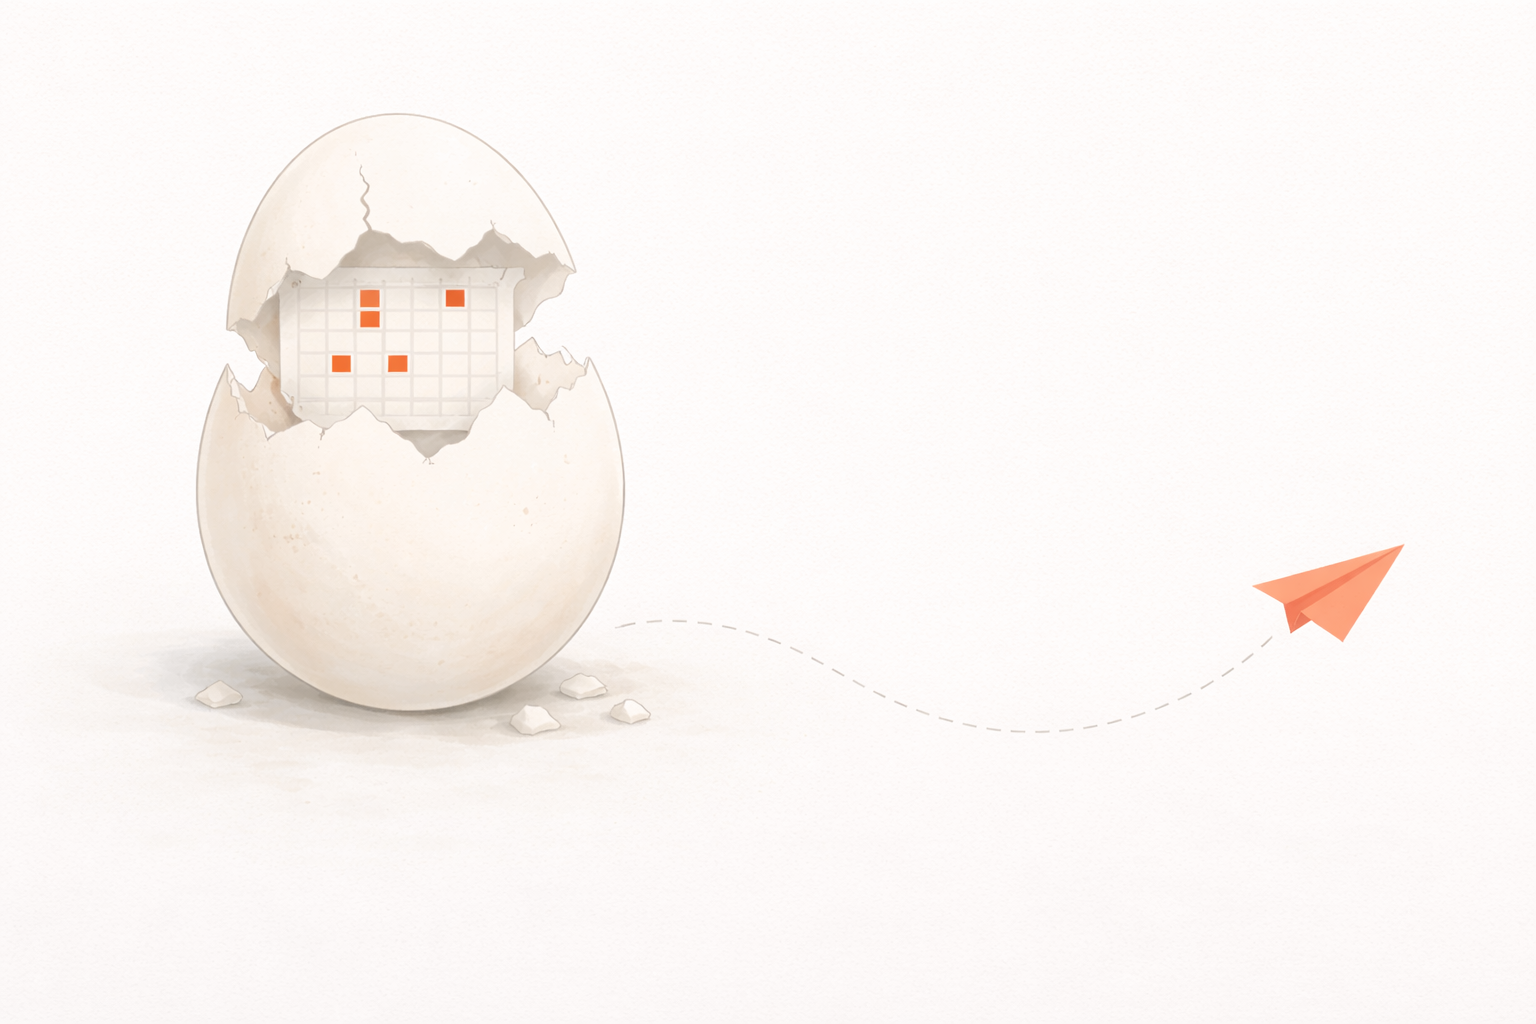
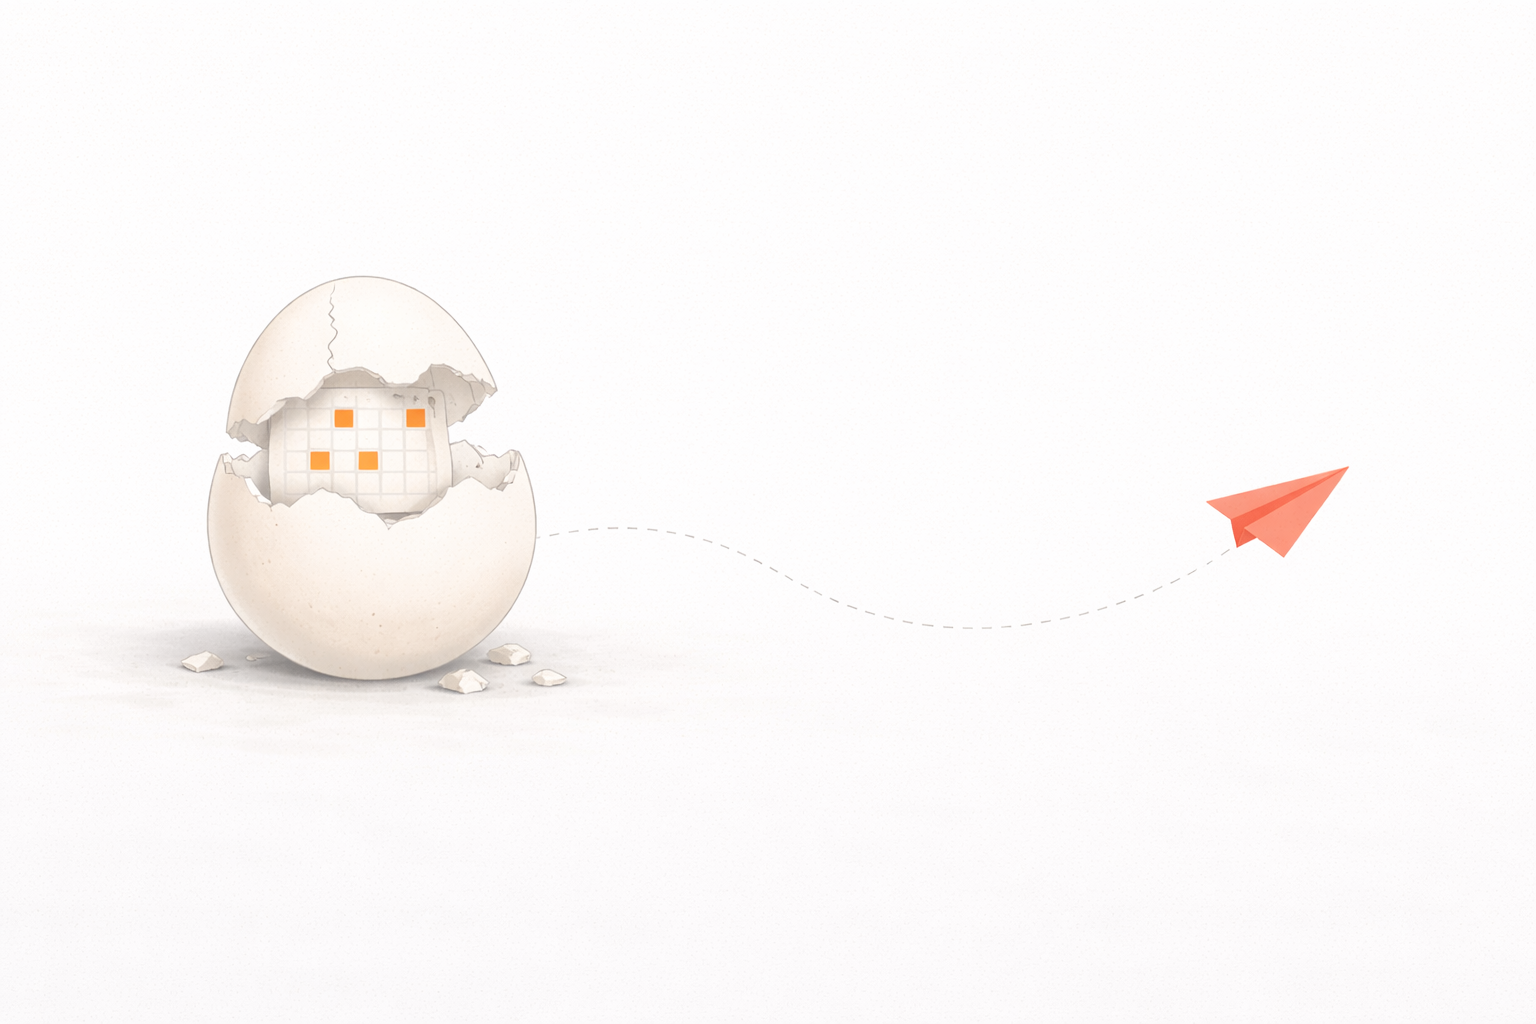
Update background to new egg illustration with adjusted positioning

Changed region(s): [[0.125, 0.1562, 0.4375, 0.75], [0.7812, 0.4375, 0.9062, 0.625]]

diff --git a/app/page.tsx b/app/page.tsx
@@ -48,7 +48,7 @@ export default function Home() {
     <main className="relative min-h-screen flex items-center justify-center p-4 py-12 overflow-hidden" style={{ background: 'var(--color-bg)' }}>
       {/* Background egg art */}
       <img src="/bg-egg.png" alt="" aria-hidden="true"
-        style={{ position: 'absolute', inset: 0, width: '100%', height: '100%', objectFit: 'cover', pointerEvents: 'none', userSelect: 'none' }} />
+        style={{ position: 'absolute', left: '-30%', top: '50%', transform: 'translateY(-50%)', width: '145%', height: 'auto', pointerEvents: 'none', userSelect: 'none' }} />
       {/* Nav */}
       {authed !== null && (
         <div className="fixed top-4 right-4 z-50">
